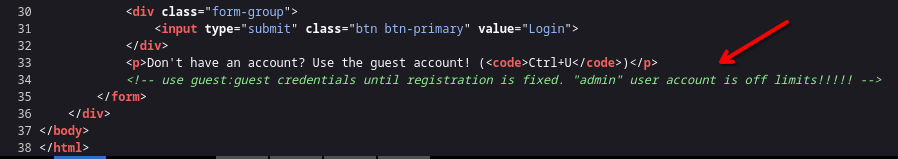
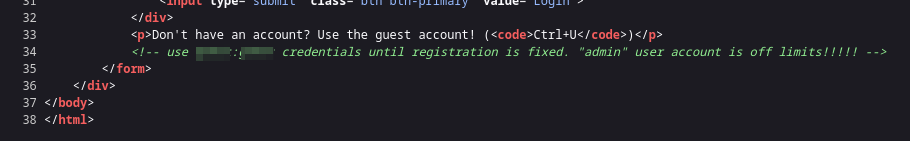
Añadir enlace a THM en Neighbour y The Sticker Shop; censurar credenciales en Neighbour

diff --git a/content/blogs/Neighbour-THM-writeup/Neighbour-THM-writeup.ca.md b/content/blogs/Neighbour-THM-writeup/Neighbour-THM-writeup.ca.md
@@ -8,24 +8,24 @@ tags = ["THM", "web", "writeup", "IDOR"]
 
 ![Logo de la màquina Neighbour](/images/writeups/TryHackMe_imágenes/Neighbour-THM-imágenes/Neighbour_logo.png)
 
-# Introducció 
+# Introducció
 
 Aquestes són les característiques d'aquesta màquina de TryHackMe anomenada Neighbour:
 
-- Plataforma: TryHackMe 
+- Plataforma: TryHackMe
 - Màquina: Neighbour
 - Dificultat: Easy
 - Categoria: Web
 
+Enllaç: [Neighbour - TryHackMe](https://tryhackme.com/room/neighbour)
+
 ## Enunciat
 
-Fes un cop d'ull al nostre nou servei al núvol, Authentication Anywhere - inicia sessió des de qualsevol lloc que vulguis! Els usuaris poden introduir el seu nom d'usuari i contrasenya, per a un procés d'inici de sessió totalment segur! Definitivament no podries trobar cap secret que altres persones tinguin al seu perfil, oi?
+Fes un cop d'ull al nostre nou servei al núvol, Authentication Anywhere: inicia la sessió des d'on vulguis! Els usuaris poden introduir el seu nom d'usuari i contrasenya, per a un procés d'inici de sessió totalment segur! Definitivament no podries trobar cap secret que altres persones tinguin al seu perfil, oi?
 
+Accedeix a aquest repte desplegant tant la màquina vulnerable prement el botó verd "Start Lab Machine" que hi ha dins d'aquesta tasca, com el TryHackMe AttackBox prement el botó "Iniciar AttackBox" situat a la part superior dreta de la pàgina.
 
-Accedeix a aquest repte desplegant tant la màquina vulnerable prement el botó verd "Start Lab Machine" ubicat dins d'aquesta tasca, com el TryHackMe AttackBox prement el botó "Iniciar AttackBox" ubicat a la part superior dreta de la pàgina.
-
-Ves a la següent URL fent servir l'AttackBox: http://MACHINE_IP
-
+Ves a la URL següent utilitzant l'AttackBox: http://MACHINE_IP
 
 Fes un cop d'ull a contingut similar a TryHackMe:
 
@@ -37,60 +37,57 @@ Per a aquesta màquina el que farem serà accedir a la web de la qual ens parlen
 
 ![Captura de com es veu la pàgina web d'aquesta màquina](/images/writeups/TryHackMe_imágenes/Neighbour-THM-imágenes/Captura_web-Neighbour-THM.png)
 
-
-Ok, veiem com ens demanen que iniciem sessió en aquesta pàgina web, però no sabem ni l'usuari ni la contrasenya, però veiem que ens diu que si no tenim usuari ni contrasenya podem fer servir el compte de guest:
+D'acord, veiem que ens demanen que iniciem sessió en aquesta pàgina web, però no sabem ni l'usuari ni la contrasenya, tot i que ens diu que si no en tenim podem fer servir el compte de guest:
 
 ![Pista que ens dona la mateixa pàgina](/images/writeups/TryHackMe_imágenes/Neighbour-THM-imágenes/Captura_remarcado_Pista-Neighbour-THM.png)
 
-Així que ho farem, ja que bàsicament fent servir ctrl+u podem veure el codi de la pàgina:
+La pàgina ens recomana fer servir el compte de convidat, però no diu la contrasenya. Anem a mirar el codi font amb Ctrl+U, per si hi ha alguna pista.
 
 ![Codi de la pàgina web](/images/writeups/TryHackMe_imágenes/Neighbour-THM-imágenes/Captura_codigo_web_Neighbour-THM.png)
 
-Ara que ens hem llegit el codi, podem veure que té aquesta secció d'aquí que diu que podem iniciar sessió fent servir com a usuari i contrasenya: guest
+Ara que hem llegit el codi, podem veure que té aquesta secció on diu que podem iniciar sessió fent servir com a usuari i contrasenya unes credencials que han quedat exposades al codi.
 
-![Captura de la secció on surt que podem iniciar com a guest](/images/writeups/TryHackMe_imágenes/Neighbour-THM-imágenes/Captura_remarcado_codigo_guest-Neighbour-THM.png)
+![Captura de la secció on surt que podem iniciar sessió com a guest](/images/writeups/TryHackMe_imágenes/Neighbour-THM-imágenes/Captura_remarcado_codigo_guest-Neighbour-THM.png)
 
-Amb l'usuari i la contrasenya, el que farem serà tornar al login i posarem aquestes dades.
+Amb l'usuari i la contrasenya, el que farem serà tornar al login i posar-hi aquestes dades.
 
-![Login amb guest com a usuari i contrasenya guest:guest](/images/writeups/TryHackMe_imágenes/Neighbour-THM-imágenes/Login_guest_Neighbour-THM.png)
+![Login amb el compte de convidat](/images/writeups/TryHackMe_imágenes/Neighbour-THM-imágenes/Login_guest_Neighbour-THM.png)
 
-Perfecte, com podem veure, hem iniciat sessió com a guest, i amb això podem veure diverses coses, per començar el missatge, que en català significa: "Hola, convidat. Benvingut al nostre lloc. Intenta no mirar el perfil del teu veí."
+Perfecte, com podem veure, hem iniciat sessió com a guest, i amb això podem veure diverses coses. Per començar, el missatge: "Hola, convidat. Benvingut al nostre lloc. Intenta no mirar el perfil del teu veí."
 
 ![Login reeixit com a guest](/images/writeups/TryHackMe_imágenes/Neighbour-THM-imágenes/Captura_dentro_guest_Neighbour-THM.png)
 
-I estant ja a dins, ens podem fixar en la forma que utilitzen per estar dins de l'usuari guest:
+I ja a dins, ens podem fixar en la manera que utilitzen per identificar l'usuari guest:
 
-![URL de la pàgina estant ja amb la sessió iniciada com a guest](/images/writeups/TryHackMe_imágenes/Neighbour-THM-imágenes/url_Neighbour-THM.png)
+![URL de la pàgina un cop iniciada la sessió com a guest](/images/writeups/TryHackMe_imágenes/Neighbour-THM-imágenes/url_Neighbour-THM.png)
 
-Amb això podem passar ja a la identificació de vulnerabilitats
-
+Amb això ja podem passar a la identificació de vulnerabilitats.
 
 ## Identificació de la vulnerabilitat
 
-La principal cosa que m'ha cridat l'atenció d'aquesta màquina ha estat la URL de l'usuari guest quan ja hem iniciat sessió, el final, on diu guest.
+La principal cosa que m'ha cridat l'atenció d'aquesta màquina ha estat la URL de l'usuari guest un cop hem iniciat sessió, el final, on posa guest.
 
 ![Identificador d'usuari](/images/writeups/TryHackMe_imágenes/Neighbour-THM-imágenes/Identificador_usuario_Neighbour-THM.png)
 
-Amb això sospito que es tracta d'una vulnerabilitat IDOR, amb la qual podríem saltar a l'usuari admin simplement canviant la URL de tal manera que en lloc de veure la pàgina de user, es vegi la pàgina d'admin.
-
+Amb això sospito que es tracta d'una vulnerabilitat IDOR, amb la qual podríem saltar a l'usuari admin simplement canviant la URL de manera que, en comptes de veure la pàgina d'user, es vegi la pàgina d'admin.
 
 ## Explotació
 
-Per a l'explotació del que sospito que és aquesta IDOR simplement hem de canviar la URL perquè en lloc de tenir user=guest sigui user=admin.
+Per a l'explotació del que sospito que és aquesta IDOR simplement hem de canviar la URL perquè, en comptes de tenir user=guest, sigui user=admin.
 
 ---
 
 #### Què és un IDOR?
 
-IDOR (Insecure Direct Object Reference) és una vulnerabilitat de control d'accés que passa quan una aplicació fa servir un identificador controlat per l'usuari (com `user=guest` a la URL) per accedir a una pàgina o altre recurs, sense comprovar si aquest usuari té permís per veure'l. En modificar l'identificador, podem accedir a dades d'altres usuaris.
+IDOR (Insecure Direct Object Reference) és una vulnerabilitat de control d'accés que es produeix quan una aplicació fa servir un identificador controlat per l'usuari (com `user=guest` a la URL) per accedir a una pàgina o a un altre recurs, sense comprovar si aquest usuari té permís per veure'l. En modificar l'identificador, podem accedir a dades d'altres usuaris.
 
 ---
 
-Així que canviem això a la nostra URL:
+Així doncs, canviem això a la nostra URL:
 
 ![Canviant la URL perquè en lloc de guest posi admin per a l'IDOR](/images/writeups/TryHackMe_imágenes/Neighbour-THM-imágenes/url_IDOR-Neighbour-THM.png)
 
-I amb això premem enter per anar a la pàgina:
+I amb això premem Enter per anar a la pàgina:
 
 ![Captura de la pàgina d'admin](/images/writeups/TryHackMe_imágenes/Neighbour-THM-imágenes/Captura_flag_Neighbour-THM.png)
 
@@ -98,9 +95,8 @@ Perfecte! Amb això hem pogut entrar a la pàgina de l'usuari administrador i he
 
 ## Obtenció de la flag
 
-I amb això ja tenim la flag d'aquesta màquina, la qual hem obtingut gràcies a una IDOR en aquesta pàgina web.
+I amb això ja tenim la flag d'aquesta màquina, que hem obtingut gràcies a un IDOR en aquesta pàgina web.
 
 ![Flag d'aquest nivell](/images/writeups/TryHackMe_imágenes/Neighbour-THM-imágenes/Captura_flag_Neighbour-THM.png)
-
 
 ## Gràcies per llegir.

diff --git a/content/blogs/Neighbour-THM-writeup/Neighbour-THM-writeup.md b/content/blogs/Neighbour-THM-writeup/Neighbour-THM-writeup.md
@@ -2,30 +2,30 @@
 date = '2026-11-06T09:31:27+01:00'
 draft = false
 title = 'Neighbour THM Writeup'
-summary = 'Writeup of the TryHackMe machine Neighbour'
+summary = 'Writeup of the Neighbour room from TryHackMe'
 tags = ["THM", "web", "writeup", "IDOR"]
 +++
 
 ![Neighbour machine logo](/images/writeups/TryHackMe_imágenes/Neighbour-THM-imágenes/Neighbour_logo.png)
 
-# Introduction 
+# Introduction
 
-These are the characteristics of this TryHackMe machine called Neighbour:
+These are the details of this TryHackMe machine called Neighbour:
 
-- Platform: TryHackMe 
+- Platform: TryHackMe
 - Machine: Neighbour
 - Difficulty: Easy
 - Category: Web
 
+Link: [Neighbour - TryHackMe](https://tryhackme.com/room/neighbour)
+
 ## Challenge description
 
-Check out our new cloud service, Authentication Anywhere - log in from wherever you want! Users can enter their username and password, for a totally secure login process! You definitely couldn't find any secrets other people have in their profile, right?
+Check out our new cloud service, Authentication Anywhere - log in from anywhere you want! Users can enter their username and password for a completely secure login process! You definitely couldn't find any secrets other people have in their profile, right?
 
+Access this challenge by deploying both the vulnerable machine by pressing the green "Start Lab Machine" button located within this task, and the TryHackMe AttackBox by pressing the "Start AttackBox" button located at the top-right of the page.
 
-Access this challenge by deploying both the vulnerable machine by pressing the green "Start Lab Machine" button located inside this task, and the TryHackMe AttackBox by pressing the "Start AttackBox" button located at the top right of the page.
-
-Go to the following URL using the AttackBox: http://MACHINE_IP
-
+Navigate to the following URL using the AttackBox: http://MACHINE_IP
 
 Check out similar content on TryHackMe:
 
@@ -33,46 +33,43 @@ Check out similar content on TryHackMe:
 
 ## Reconnaissance
 
-For this machine, what we are going to do is access the website they are talking about:
+For this machine, the first thing we are going to do is access the website they are talking about:
 
-![Screenshot of what this machine's website looks like](/images/writeups/TryHackMe_imágenes/Neighbour-THM-imágenes/Captura_web-Neighbour-THM.png)
+![Screenshot of the machine's website](/images/writeups/TryHackMe_imágenes/Neighbour-THM-imágenes/Captura_web-Neighbour-THM.png)
 
-
-Okay, we can see they ask us to log in on this website, but we know neither the username nor the password, but we see it tells us that if we don't have a username or password we can use the guest account:
+Okay, we can see that we are asked to log in to this website, but we know neither the username nor the password. However, the page tells us that if we don't have an account we can use the guest account:
 
 ![Hint given by the page itself](/images/writeups/TryHackMe_imágenes/Neighbour-THM-imágenes/Captura_remarcado_Pista-Neighbour-THM.png)
 
-So let's do it, since basically using ctrl+u lets us see the page's source code:
+The page recommends using the guest account, but it doesn't tell us the password. Let's look at the source code with Ctrl+U, in case there is a clue.
 
-![Website source code](/images/writeups/TryHackMe_imágenes/Neighbour-THM-imágenes/Captura_codigo_web_Neighbour-THM.png)
+![Source code of the web page](/images/writeups/TryHackMe_imágenes/Neighbour-THM-imágenes/Captura_codigo_web_Neighbour-THM.png)
 
-Now that we have read the code, we can see it has this section here saying we can log in using guest as both username and password:
+Now that we have read the code, we can see this section, which tells us we can log in using credentials that have been exposed in the code.
 
 ![Screenshot of the section showing we can log in as guest](/images/writeups/TryHackMe_imágenes/Neighbour-THM-imágenes/Captura_remarcado_codigo_guest-Neighbour-THM.png)
 
-With the username and password, what we are going to do is go back to the login and enter these credentials.
+With the username and password, we are going to go back to the login page and enter them.
 
-![Login with guest as username and password guest:guest](/images/writeups/TryHackMe_imágenes/Neighbour-THM-imágenes/Login_guest_Neighbour-THM.png)
+![Login with the guest account](/images/writeups/TryHackMe_imágenes/Neighbour-THM-imágenes/Login_guest_Neighbour-THM.png)
 
-Perfect, as we can see, we have logged in as guest, and with this we can see several things, starting with the message, which says: "Hi, guest. Welcome to our site. Try not to peep at your neighbor's profile."
+Perfect, as we can see, we have logged in as guest, and there are several things we can notice. To begin with, the message: "Hi, guest. Welcome to our site. Try not to peep your neighbor's profile."
 
 ![Successful login as guest](/images/writeups/TryHackMe_imágenes/Neighbour-THM-imágenes/Captura_dentro_guest_Neighbour-THM.png)
 
-And now that we are inside, we can notice how they identify us inside the guest user:
+And now that we are inside, we can look at how the site identifies the guest user:
 
 ![Page URL once logged in as guest](/images/writeups/TryHackMe_imágenes/Neighbour-THM-imágenes/url_Neighbour-THM.png)
 
-With this we can move on to identifying vulnerabilities
-
+With this, we can move on to identifying vulnerabilities.
 
 ## Vulnerability identification
 
-The main thing that caught my attention about this machine was the guest user's URL once we have logged in, the end, where it says guest.
+The main thing that caught my attention in this machine was the guest user's URL once logged in, specifically the end, where it says guest.
 
 ![User identifier](/images/writeups/TryHackMe_imágenes/Neighbour-THM-imágenes/Identificador_usuario_Neighbour-THM.png)
 
-With this I suspect it is an IDOR vulnerability, with which we could jump to the admin user simply by changing the URL so that instead of seeing the user page, we see the admin page.
-
+From this I suspect it is an IDOR vulnerability, with which we could jump to the admin user simply by changing the URL so that, instead of showing the user page, it shows the admin page.
 
 ## Exploitation
 
@@ -82,7 +79,7 @@ To exploit what I suspect is an IDOR, we simply need to change the URL so that i
 
 #### What is an IDOR?
 
-IDOR (Insecure Direct Object Reference) is an access control vulnerability that occurs when an application uses a user-controlled identifier (such as `user=guest` in the URL) to access a page or other resource, without checking whether that user has permission to view it. By modifying the identifier, we can access other users' data.
+IDOR (Insecure Direct Object Reference) is an access control vulnerability that occurs when an application uses a user-controlled identifier (such as `user=guest` in the URL) to access a page or other resource without checking whether that user has permission to view it. By modifying the identifier, we can access other users' data.
 
 ---
 
@@ -90,17 +87,16 @@ So we change that in our URL:
 
 ![Changing the URL so it says admin instead of guest for the IDOR](/images/writeups/TryHackMe_imágenes/Neighbour-THM-imágenes/url_IDOR-Neighbour-THM.png)
 
-And with this we press enter to go to the page:
+And we press Enter to go to the page:
 
 ![Screenshot of the admin page](/images/writeups/TryHackMe_imágenes/Neighbour-THM-imágenes/Captura_flag_Neighbour-THM.png)
 
-Perfect! With this we have managed to enter the administrator user's page and we have got the flag.
+Perfect! We have managed to enter the administrator user's page and we have obtained the flag.
 
-## Getting the flag
+## Obtaining the flag
 
-And with this we now have this machine's flag, which we obtained thanks to an IDOR on this website.
+And with this we have the flag for this machine, which we obtained thanks to an IDOR in this website.
 
 ![Flag of this level](/images/writeups/TryHackMe_imágenes/Neighbour-THM-imágenes/Captura_flag_Neighbour-THM.png)
-
 
 ## Thanks for reading.

diff --git a/content/blogs/Neighbour-THM-writeup/Neighbour-THM-writeup.es.md b/content/blogs/Neighbour-THM-writeup/Neighbour-THM-writeup.es.md
@@ -17,6 +17,8 @@ Estas son las características de esta máquina de TryHackMe llamada Neighbour:
 - Dificultad: Easy
 - Categoría: Web
 
+Link: [Neighbour - TryHackMe](https://tryhackme.com/room/neighbour)
+
 ## Enunciado
 
 Echa un vistazo a nuestro nuevo servicio en la nube, Authentication Anywhere - ¡iniciar sesión desde cualquier lugar que desee! Los usuarios pueden introducir su nombre de usuario y contraseña, ¡para un proceso de inicio de sesión totalmente seguro! Definitivamente no podrías encontrar ningún secreto que otras personas tengan en su perfil, ¿verdad?
@@ -42,11 +44,11 @@ Okey, vemos cómo nos piden que iniciemos sesión en esta página web, pero no s
 
 ![Pista que nos da la misma página](/images/writeups/TryHackMe_imágenes/Neighbour-THM-imágenes/Captura_remarcado_Pista-Neighbour-THM.png)
 
-Así que vamos a hacerlo, ya que básicamente usar ctrl+u nos deja ver el código de la página:
+La página nos recomienda usar la cuenta de invitado, pero no dice la contraseña. Vamos a mirar el código fuente con Ctrl+U, por si hay alguna pista.
 
 ![Código de la página web](/images/writeups/TryHackMe_imágenes/Neighbour-THM-imágenes/Captura_codigo_web_Neighbour-THM.png)
 
-Ahora que nos hemos leído el código, podemos ver que tiene esta sección de aquí que pone que podemos iniciar sesión usando como usuario y contraseña: guest
+Ahora que nos hemos leído el código, podemos ver que tiene esta sección de aquí que pone que podemos iniciar sesión usando como usuario y contraseña unas credenciales que han quedado expuestas en el código.
 
 ![Captura de la sección donde sale que podemos iniciar como guest](/images/writeups/TryHackMe_imágenes/Neighbour-THM-imágenes/Captura_remarcado_codigo_guest-Neighbour-THM.png)
 

diff --git a/content/blogs/The_Sticker_Shop-THM-writeup/The_Sticker_Shop-THM-writeup.ca.md b/content/blogs/The_Sticker_Shop-THM-writeup/The_Sticker_Shop-THM-writeup.ca.md
@@ -17,6 +17,8 @@ Aquestes són les característiques d'aquesta màquina de TryHackMe anomenada Th
 - Dificultat: Easy
 - Categoria: Web
 
+Link: [The Stiker Shop - TryHackMe](https://tryhackme.com/room/thestickershop)
+
 ## Enunciat
 
 La seva botiga local de pegatines finalment ha desenvolupat la seva pròpia pàgina web. No tenen gaire experiència amb el desenvolupament web, per la qual cosa van decidir desenvolupar i allotjar-ho tot al mateix ordinador que fan servir per navegar per Internet i mirar els comentaris dels clients. Molt intel·ligent!

diff --git a/content/blogs/The_Sticker_Shop-THM-writeup/The_Sticker_Shop-THM-writeup.es.md b/content/blogs/The_Sticker_Shop-THM-writeup/The_Sticker_Shop-THM-writeup.es.md
@@ -17,6 +17,8 @@ Estas son las características de esta máquina de TryHackMe llamada The Sticker
 - Dificultad: Easy
 - Categoría: Web
 
+Link: [The Stiker Shop - TryHackMe](https://tryhackme.com/room/thestickershop)
+
 ## Enunciado
 
 Su tienda local de pegatinas finalmente ha desarrollado su propia página web. No tienen demasiada experiencia con respecto al desarrollo web, por lo que decidieron desarrollar y alojar todo en la misma computadora que utilizan para navegar por Internet y mirar los comentarios de los clientes. ¡Muy inteligente!

diff --git a/content/blogs/The_Sticker_Shop-THM-writeup/The_Sticker_Shop-THM-writeup.md b/content/blogs/The_Sticker_Shop-THM-writeup/The_Sticker_Shop-THM-writeup.md
@@ -17,6 +17,8 @@ These are the characteristics of this TryHackMe machine called The Sticker Shop:
 - Difficulty: Easy
 - Category: Web
 
+Link: [Yhe Stiker Shop - TryHackMe](https://tryhackme.com/room/thestickershop)
+
 ## Challenge description
 
 Their local sticker shop has finally developed their own website. They don't have much experience with web development, so they decided to develop and host everything on the same computer they use to browse the Internet and check customer reviews. Smart move!
